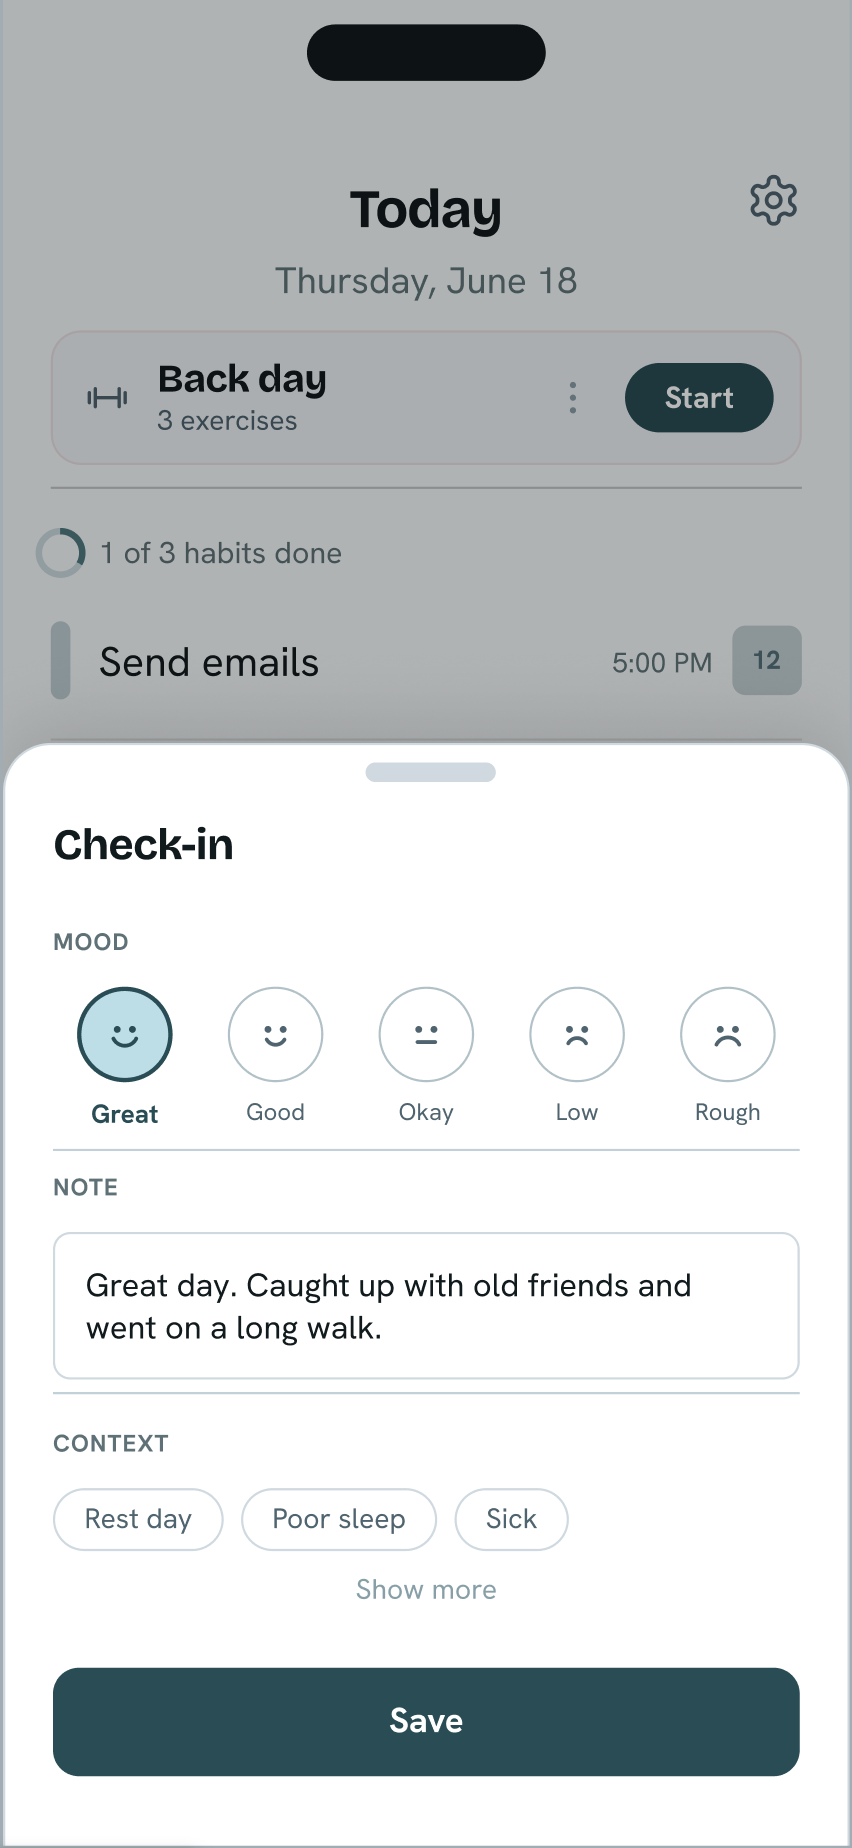
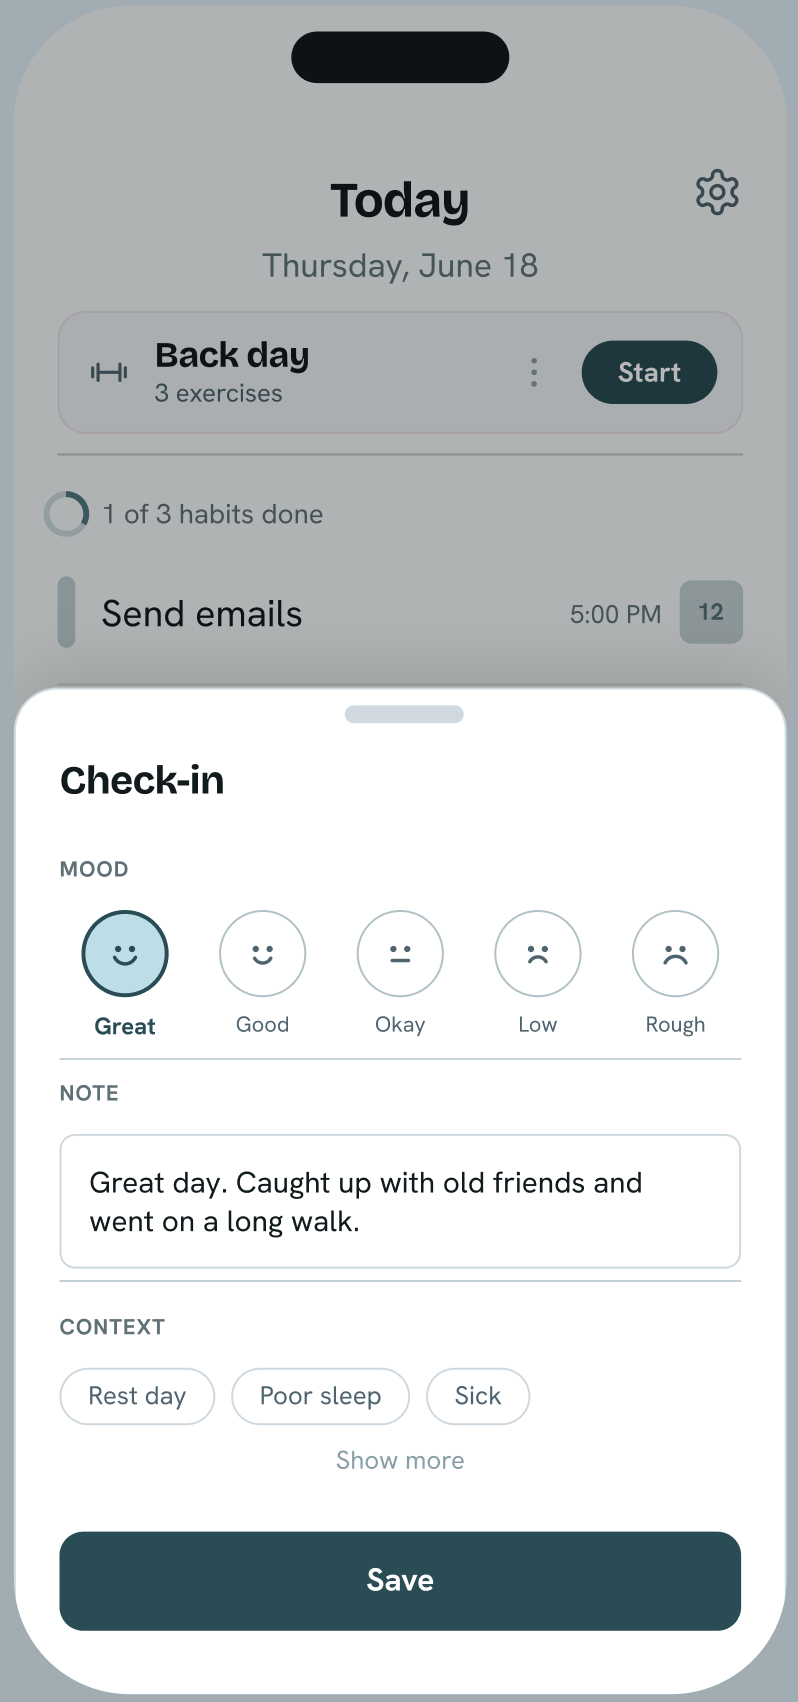
chore(app): rename product to Cadena

diff --git a/README.md b/README.md
@@ -1,25 +1,25 @@
-# HabIt
+# Cadena
 
 ## Overview
 
-HabIt is an in-progress Expo/React Native mobile app for daily habit tracking, fitness planning, and lightweight personal check-ins. It is being built as a local-first product centered on a single Today view.
+Cadena is an in-progress Expo/React Native mobile app for daily habit tracking, fitness planning, and lightweight personal check-ins. It is being built as a local-first product centered on a single Today view.
 
 ## Demo / Design
 
-habIt is currently in active development. The Figma prototype shows the intended product flow, screen structure, and interaction model.
+Cadena is currently in active development. The Figma prototype shows the intended product flow, screen structure, and interaction model.
 
 ### Links
 
 | Asset | Link |
 |---|---|
-| Demo video | [Watch demo](https://raw.githubusercontent.com/hnadhem/habIt/main/docs/demo.mp4) |
+| Demo video | [Watch demo](https://raw.githubusercontent.com/hnadhem/Cadena/main/docs/demo.mp4) |
 | Figma prototype | [View prototype](https://www.figma.com/design/GjeSAk79x2gZBlPbHpy1ZV/habIt?node-id=440-18136&t=FvSVJmJxfxeYcbXJ-1) |
 
 ### Demo video
 
 <p align="center">
-  <a href="https://raw.githubusercontent.com/hnadhem/habIt/main/docs/demo.mp4">
-    <img src="docs/demo-poster.png" width="250" alt="Play HabIt demo video" />
+  <a href="https://raw.githubusercontent.com/hnadhem/Cadena/main/docs/demo.mp4">
+    <img src="docs/demo-poster.png" width="250" alt="Play Cadena demo video" />
   </a>
 </p>
 
@@ -79,7 +79,7 @@ habIt is currently in active development. The Figma prototype shows the intended
 
 ## Current Status
 
-HabIt is under active development and is not complete or release-ready.
+Cadena is under active development and is not complete or release-ready.
 
 Built:
 

diff --git a/AGENTS.md b/AGENTS.md
@@ -1,8 +1,8 @@
-# AGENTS.md - HabIt Agent Guide
+# AGENTS.md - Cadena Agent Guide
 
 ## Purpose
 
-This file is the shared project guide for coding agents working in HabIt. Codex reads it automatically. Claude Code imports it from `CLAUDE.md`.
+This file is the shared project guide for coding agents working in Cadena. Codex reads it automatically. Claude Code imports it from `CLAUDE.md`.
 
 Keep durable, repo-wide guidance here. Put tool-specific behavior in `CLAUDE.md`, `.claude/`, `.codex/`, or repo skills.
 

diff --git a/CLAUDE.md b/CLAUDE.md
@@ -1,4 +1,4 @@
-# CLAUDE.md — HabIt Project
+# CLAUDE.md — Cadena Project
 
 @AGENTS.md
 